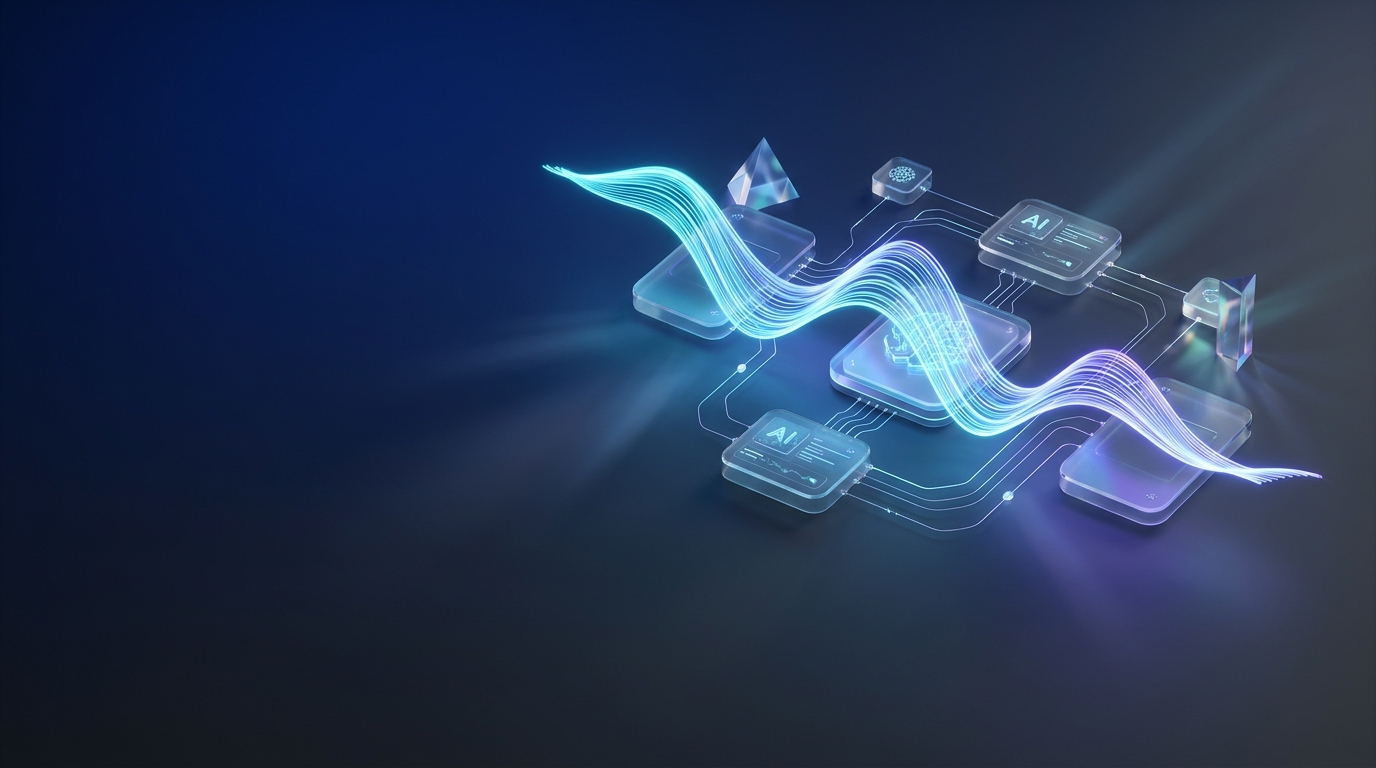
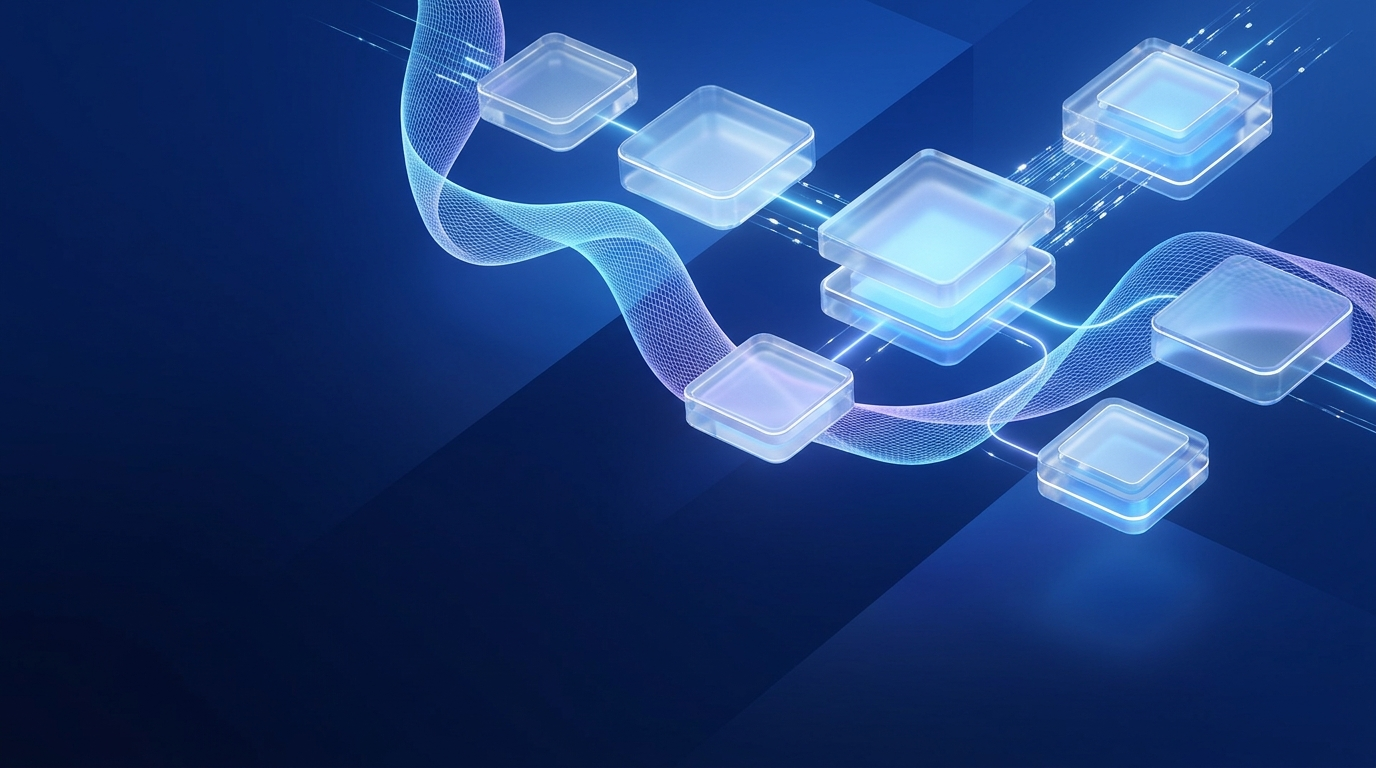
Update hero showcase image background to #081e4a studio navy

diff --git a/client/src/components/sections/HeroSection.tsx b/client/src/components/sections/HeroSection.tsx
@@ -137,10 +137,10 @@ export const HeroSection: React.FC<HeroSectionProps> = ({
                     alt="AI Launchpad Live Bootcamp"
                     className="w-full h-full object-cover transition-transform duration-500 group-hover:scale-[1.03]"
                   />
-                  <div className="absolute inset-0 bg-gradient-to-t from-slate-950/90 via-slate-950/25 to-transparent flex items-end p-4 sm:p-5">
+                  <div className="absolute inset-0 bg-gradient-to-t from-[#081e4a]/90 via-[#081e4a]/25 to-transparent flex items-end p-4 sm:p-5">
                     <div className="text-white w-full flex flex-col gap-1">
                       <div className="flex items-center justify-between gap-2 flex-wrap">
-                        <span className="inline-block text-[10px] font-bold uppercase tracking-wider px-2.5 py-0.5 rounded-md bg-[#081e4a] text-white">
+                        <span className="inline-block text-[10px] font-bold uppercase tracking-wider px-2.5 py-0.5 rounded-md bg-white/15 backdrop-blur-md border border-white/25 text-white">
                           Batch {currentBatch.batchCode}
                         </span>
                         <span className="inline-flex items-center gap-1 text-[10px] font-bold px-2.5 py-0.5 rounded-full bg-emerald-500/20 text-emerald-200 border border-emerald-400/30 backdrop-blur-xs">
